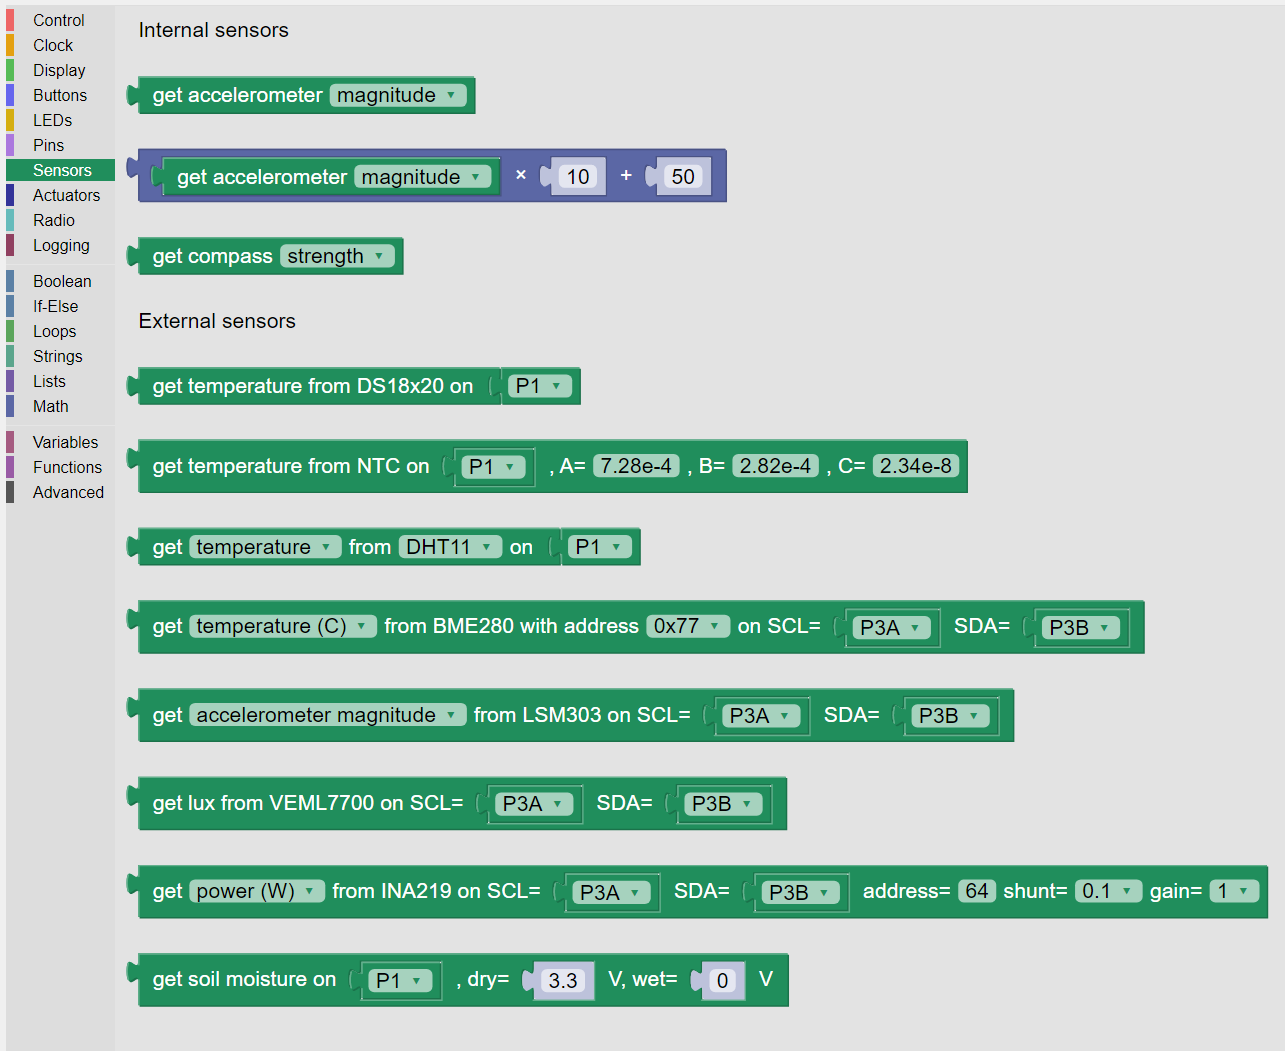
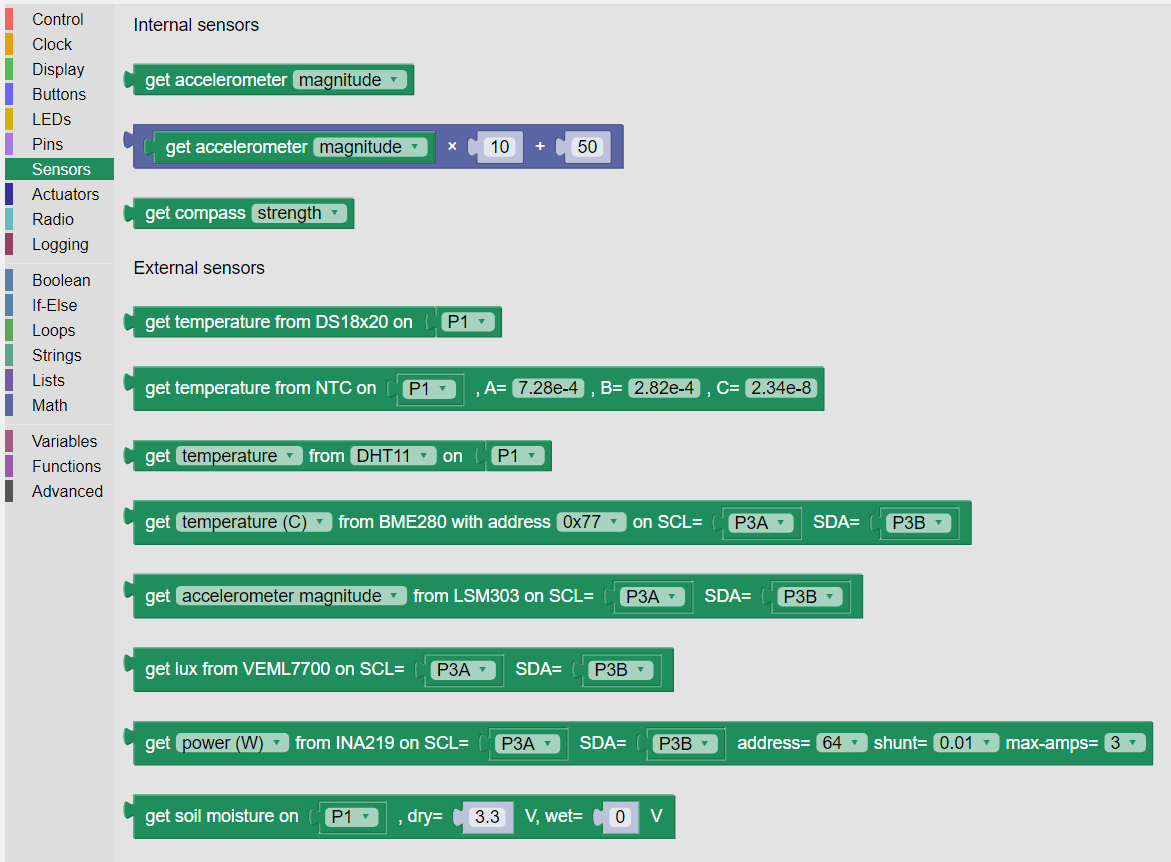
Update Sensors INA219 information

Changed region(s): [[0.0, 0.0, 1.0, 0.9954]]

diff --git a/docs/source/sensors.rst b/docs/source/sensors.rst
@@ -348,10 +348,6 @@ When using a VEML7700 circuit board it is important that these signals are conne
 Get Power / Voltage / Current from INA219
 ~~~~~~~~~~~~~~~~~~~~~~~~~~~~~~~~~~~~~~~~~
 
-.. note:: 
-   This block has not been finalised and this description is provisional and subject to change.
-
-
 The **Get Power / Voltage / Current from INA219** block is shown below with the four sets of options available from the drop-down boxes on the block.
 
 
@@ -369,11 +365,13 @@ The first drop-down box provides the list of measurements available which are:
 
 .. note::
 
-   The range and resolution of the INA219 sensor readings are set by the value of an internal shunt resistor, the gain, and the interfacing software. 
+   The range and resolution of the INA219 sensor readings are set by the value of an internal shunt resistor, the maximum amps, 
+   and the interfacing software. 
 
 
 .. important:: 
-   The safe operating range of the INA219 is given by the device's data sheet.  Nominally the maximum voltage is 26 volts, maximum current is 8 amps.
+   The safe operating range of the INA219 is given by the device's data sheet.  
+   Nominally the maximum voltage is 26 volts, maximum current is 8 amps.
 
 
 .. image:: images/sensors-get-power-ina219-pins.png
